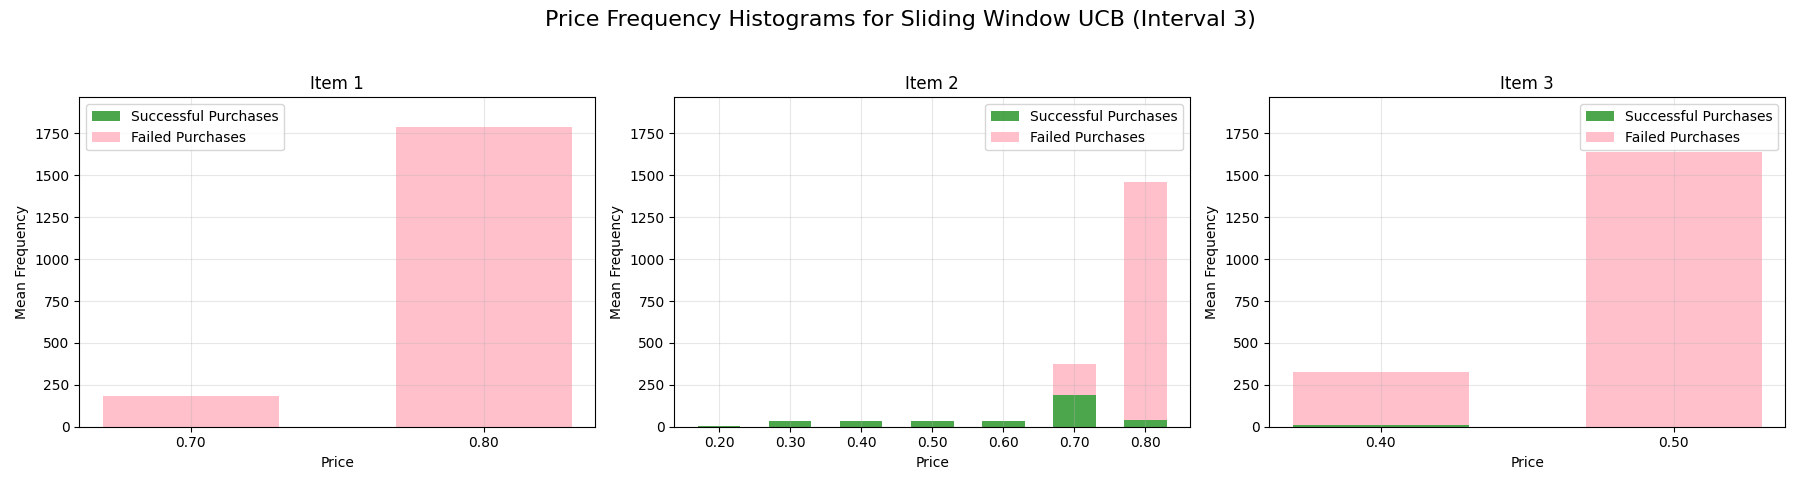
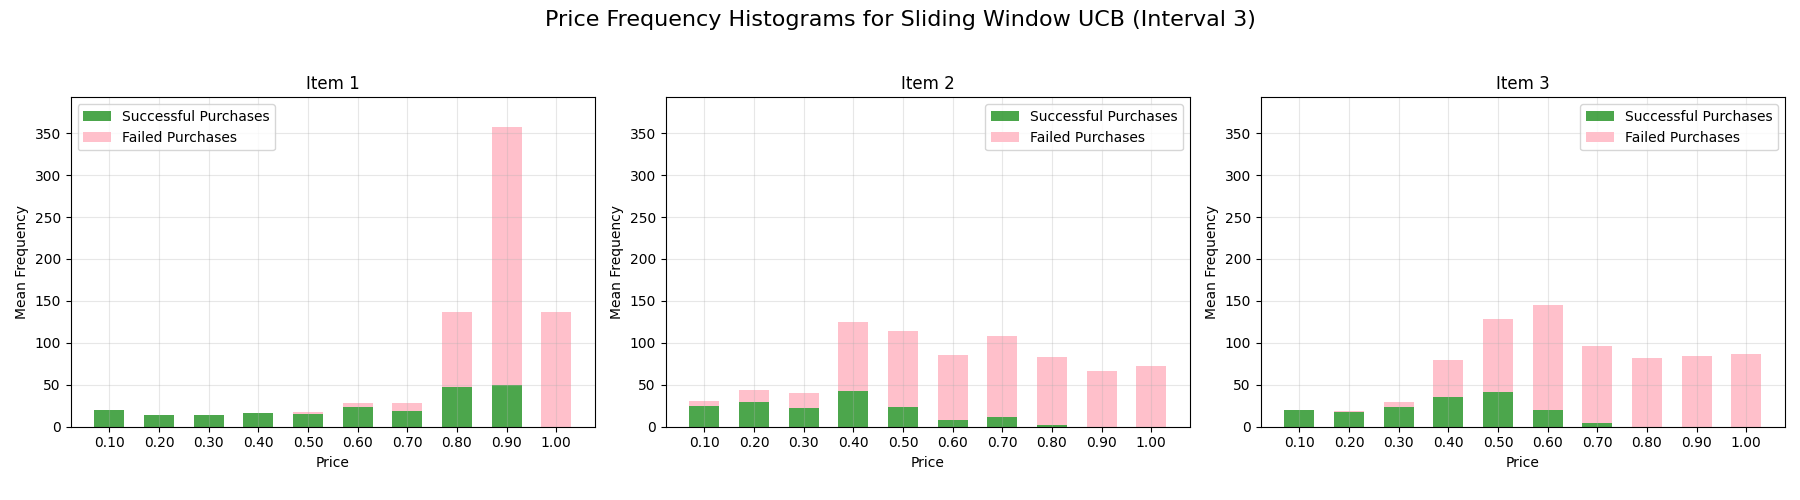
req5

diff --git a/req5/req5.py b/req5/req5.py
@@ -1,13 +1,21 @@
+import os
+import sys
 from dataclasses import dataclass
 from typing import Callable, TypeVar
+
+# Add parent directory to path for imports
+sys.path.append(os.path.dirname(os.path.dirname(os.path.abspath(__file__))))
 
 import numpy as np
 from matplotlib import pyplot as plt
 from numpy.typing import NDArray
 
-from ..agents import Agent, CombinatorialUCBBiddingSlidingWindow
-from ..baselines import OptimalDistributionMultiItemBaselineAgent
-from ..environments import (
+from agents import Agent, CombinatorialUCBBiddingSlidingWindow
+from baselines import (
+    FixedActionBaselineAgent,
+    OptimalDistributionMultiItemBaselineAgent,
+)
+from environments import (
     Environment,
     NonStochasticAbruptChangeEnvironment,
     NonStochasticSmoothChangeEnvironment,
@@ -146,8 +154,7 @@ def run_multiple_simulations(
     num_items = temp_env.num_items
     time_horizon = temp_env.time_horizon
 
-    valuations = np.zeros(
-        (num_trials, num_items, time_horizon), dtype=np.float64)
+    valuations = np.zeros((num_trials, num_items, time_horizon), dtype=np.float64)
 
     agent_played_arms = np.full(
         (num_trials, num_items, time_horizon), -1, dtype=np.int64
@@ -183,65 +190,47 @@ def run_multiple_simulations(
 print("Task: Multiple items (3) with budget constraint")
 
 num_trials = 2
-time_horizon = 6_000
+time_horizon = 12_000
 prices = np.linspace(0.1, 1.0, 10)
 num_prices = len(prices)
 num_items = 3
-budget = 5_000
+budget = 12_000
 
 
-def env_builder() -> Environment:
+def env_builder1() -> Environment:
+    low = NonStochasticAbruptChangeEnvironment.gaussian_distribution(
+        mean=0.25, std=0.05
+    )
+    medium = NonStochasticAbruptChangeEnvironment.gaussian_distribution(
+        mean=0.5, std=0.05
+    )
+    high = NonStochasticAbruptChangeEnvironment.gaussian_distribution(
+        mean=0.75, std=0.05
+    )
     return NonStochasticAbruptChangeEnvironment(
         distribution_functions=[
-            [
-                NonStochasticAbruptChangeEnvironment.gaussian_distribution(
-                    mean=0.2, std=0.05
-                ),
-                NonStochasticAbruptChangeEnvironment.gaussian_distribution(
-                    mean=0.7, std=0.05
-                ),
-                NonStochasticAbruptChangeEnvironment.gaussian_distribution(
-                    mean=0.2, std=0.05
-                ),
-            ],
-            [
-                NonStochasticAbruptChangeEnvironment.gaussian_distribution(
-                    mean=0.7, std=0.05
-                ),
-                NonStochasticAbruptChangeEnvironment.gaussian_distribution(
-                    mean=0.2, std=0.05
-                ),
-                NonStochasticAbruptChangeEnvironment.gaussian_distribution(
-                    mean=0.7, std=0.05
-                ),
-            ],
-            [
-                NonStochasticAbruptChangeEnvironment.gaussian_distribution(
-                    mean=0.3, std=0.05
-                ),
-                NonStochasticAbruptChangeEnvironment.gaussian_distribution(
-                    mean=0.4, std=0.05
-                ),
-                NonStochasticAbruptChangeEnvironment.gaussian_distribution(
-                    mean=0.3, std=0.05
-                ),
-            ],
+            [low, high, low],
+            [high, low, high],
+            [medium, medium, medium],
         ],
         num_rounds=time_horizon,
     )
-    # return NonStochasticSmoothChangeEnvironment(
-    #     distribution_functions=[
-    #         NonStochasticSmoothChangeEnvironment.generate_simple_tv(
-    #             time_horizon, 1),
-    #         NonStochasticSmoothChangeEnvironment.generate_simple_tv(
-    #             time_horizon, 1),
-    #         NonStochasticSmoothChangeEnvironment.generate_simple_tv(
-    #             time_horizon, 1),
-    #         NonStochasticSmoothChangeEnvironment.generate_simple_tv(
-    #             time_horizon, 1),
-    #     ],
-    #     num_rounds=time_horizon,
-    # )
+
+
+def env_builder2() -> Environment:
+    low = NonStochasticSmoothChangeEnvironment.generate_beta_valuations(
+        time_horizon=time_horizon, freq=1
+    )
+    medium = NonStochasticSmoothChangeEnvironment.generate_beta_valuations(
+        time_horizon=time_horizon, freq=2
+    )
+    high = NonStochasticSmoothChangeEnvironment.generate_beta_valuations(
+        time_horizon=time_horizon, freq=3
+    )
+    return NonStochasticSmoothChangeEnvironment(
+        distribution_functions=[low, medium, high],
+        num_rounds=time_horizon,
+    )
 
 
 @dataclass
@@ -263,7 +252,7 @@ def combinatorial_agent_builder(
         price_set=prices,
         budget=config.budget,
         time_horizon=time_horizon,
-        window_size=50,
+        window_size=500,
     )
 
 
@@ -277,8 +266,9 @@ def baseline_builder(config: BaselineAgentConfig, env: Environment) -> Agent:
     assert isinstance(
         config, BaselineAgentConfig
     ), f"Expected BaselineAgentConfig, got {type(config)}"
-    return OptimalDistributionMultiItemBaselineAgent(
+    return FixedActionBaselineAgent(
         prices=prices,
+        num_items=env.num_items,
         valuations=env.valuations,
         time_horizon=time_horizon,
         budget=config.budget,
@@ -286,7 +276,7 @@ def baseline_builder(config: BaselineAgentConfig, env: Environment) -> Agent:
 
 
 results = run_multiple_simulations(
-    env_builder=env_builder,
+    env_builder=env_builder2,
     agent_builder=combinatorial_agent_builder,
     baseline_builder=baseline_builder,
     num_trials=num_trials,
@@ -321,18 +311,27 @@ plot_budget_evolution(
 fig.savefig("req5_cumulative_regret_budget_evolution.png")
 
 
-temp_env = env_builder()
+temp_env = env_builder2()
+plot_price_frequency_histograms(
+    valuations=results.valuations,
+    agents_played_arms=results.baseline_played_arms[np.newaxis, :, :, :],
+    prices=prices,
+    agents_names=[f"Optimal Baseline"],
+    save_plot=True,
+    save_path_prefix=f"req5_price_histogram_baseline",
+)
 
-for interval_index in range(temp_env._num_intervals):
-    interval_length = temp_env._interval_length
+for interval_index in range(3):
+    interval_length = time_horizon // 3
     start_time = interval_index * interval_length
     end_time = start_time + interval_length
 
     plot_conversion_rates(
         valuations=results.valuations[:, :, start_time:end_time],
-        agents_played_arms=results.agent_played_arms[np.newaxis, :, :,
-                                                     start_time:end_time],
-        baseline_played_arms=results.baseline_played_arms,
+        agents_played_arms=results.agent_played_arms[
+            np.newaxis, :, :, start_time:end_time
+        ],
+        baseline_played_arms=results.baseline_played_arms[:, :, start_time:end_time],
         prices=prices,
         agents_names=[f"Sliding Window UCB (Interval {interval_index + 1})"],
         save_plot=True,
@@ -341,8 +340,9 @@ for interval_index in range(temp_env._num_intervals):
 
     plot_price_frequency_histograms(
         valuations=results.valuations[:, :, start_time:end_time],
-        agents_played_arms=results.agent_played_arms[np.newaxis,
-                                                     :, :, start_time:end_time],
+        agents_played_arms=results.agent_played_arms[
+            np.newaxis, :, :, start_time:end_time
+        ],
         prices=prices,
         agents_names=[f"Sliding Window UCB (Interval {interval_index + 1})"],
         save_plot=True,
@@ -350,13 +350,14 @@ for interval_index in range(temp_env._num_intervals):
     )
 
 # Genera e salva animazione per l'agente Sliding Window UCB
-print("Generando animazione per l'agente Sliding Window UCB...")
-plot_animated_price_frequency_histograms(
-    valuations=results.valuations,
-    agents_played_arms=results.agent_played_arms[np.newaxis, ...],
-    prices=prices,
-    agents_names=["Sliding Window UCB"],
-    save_path_prefix="req5_animation_sliding_window_ucb"
-)
+# print("Generando animazione per l'agente Sliding Window UCB...")
+# plot_animated_price_frequency_histograms(
+#     valuations=results.valuations,
+#     agents_played_arms=results.agent_played_arms[np.newaxis, ...],
+#     prices=prices,
+#     number_of_frames=100,
+#     agents_names=["Sliding Window UCB"],
+#     save_path_prefix="req5_animation_sliding_window_ucb",
+# )
 
 plt.show()
